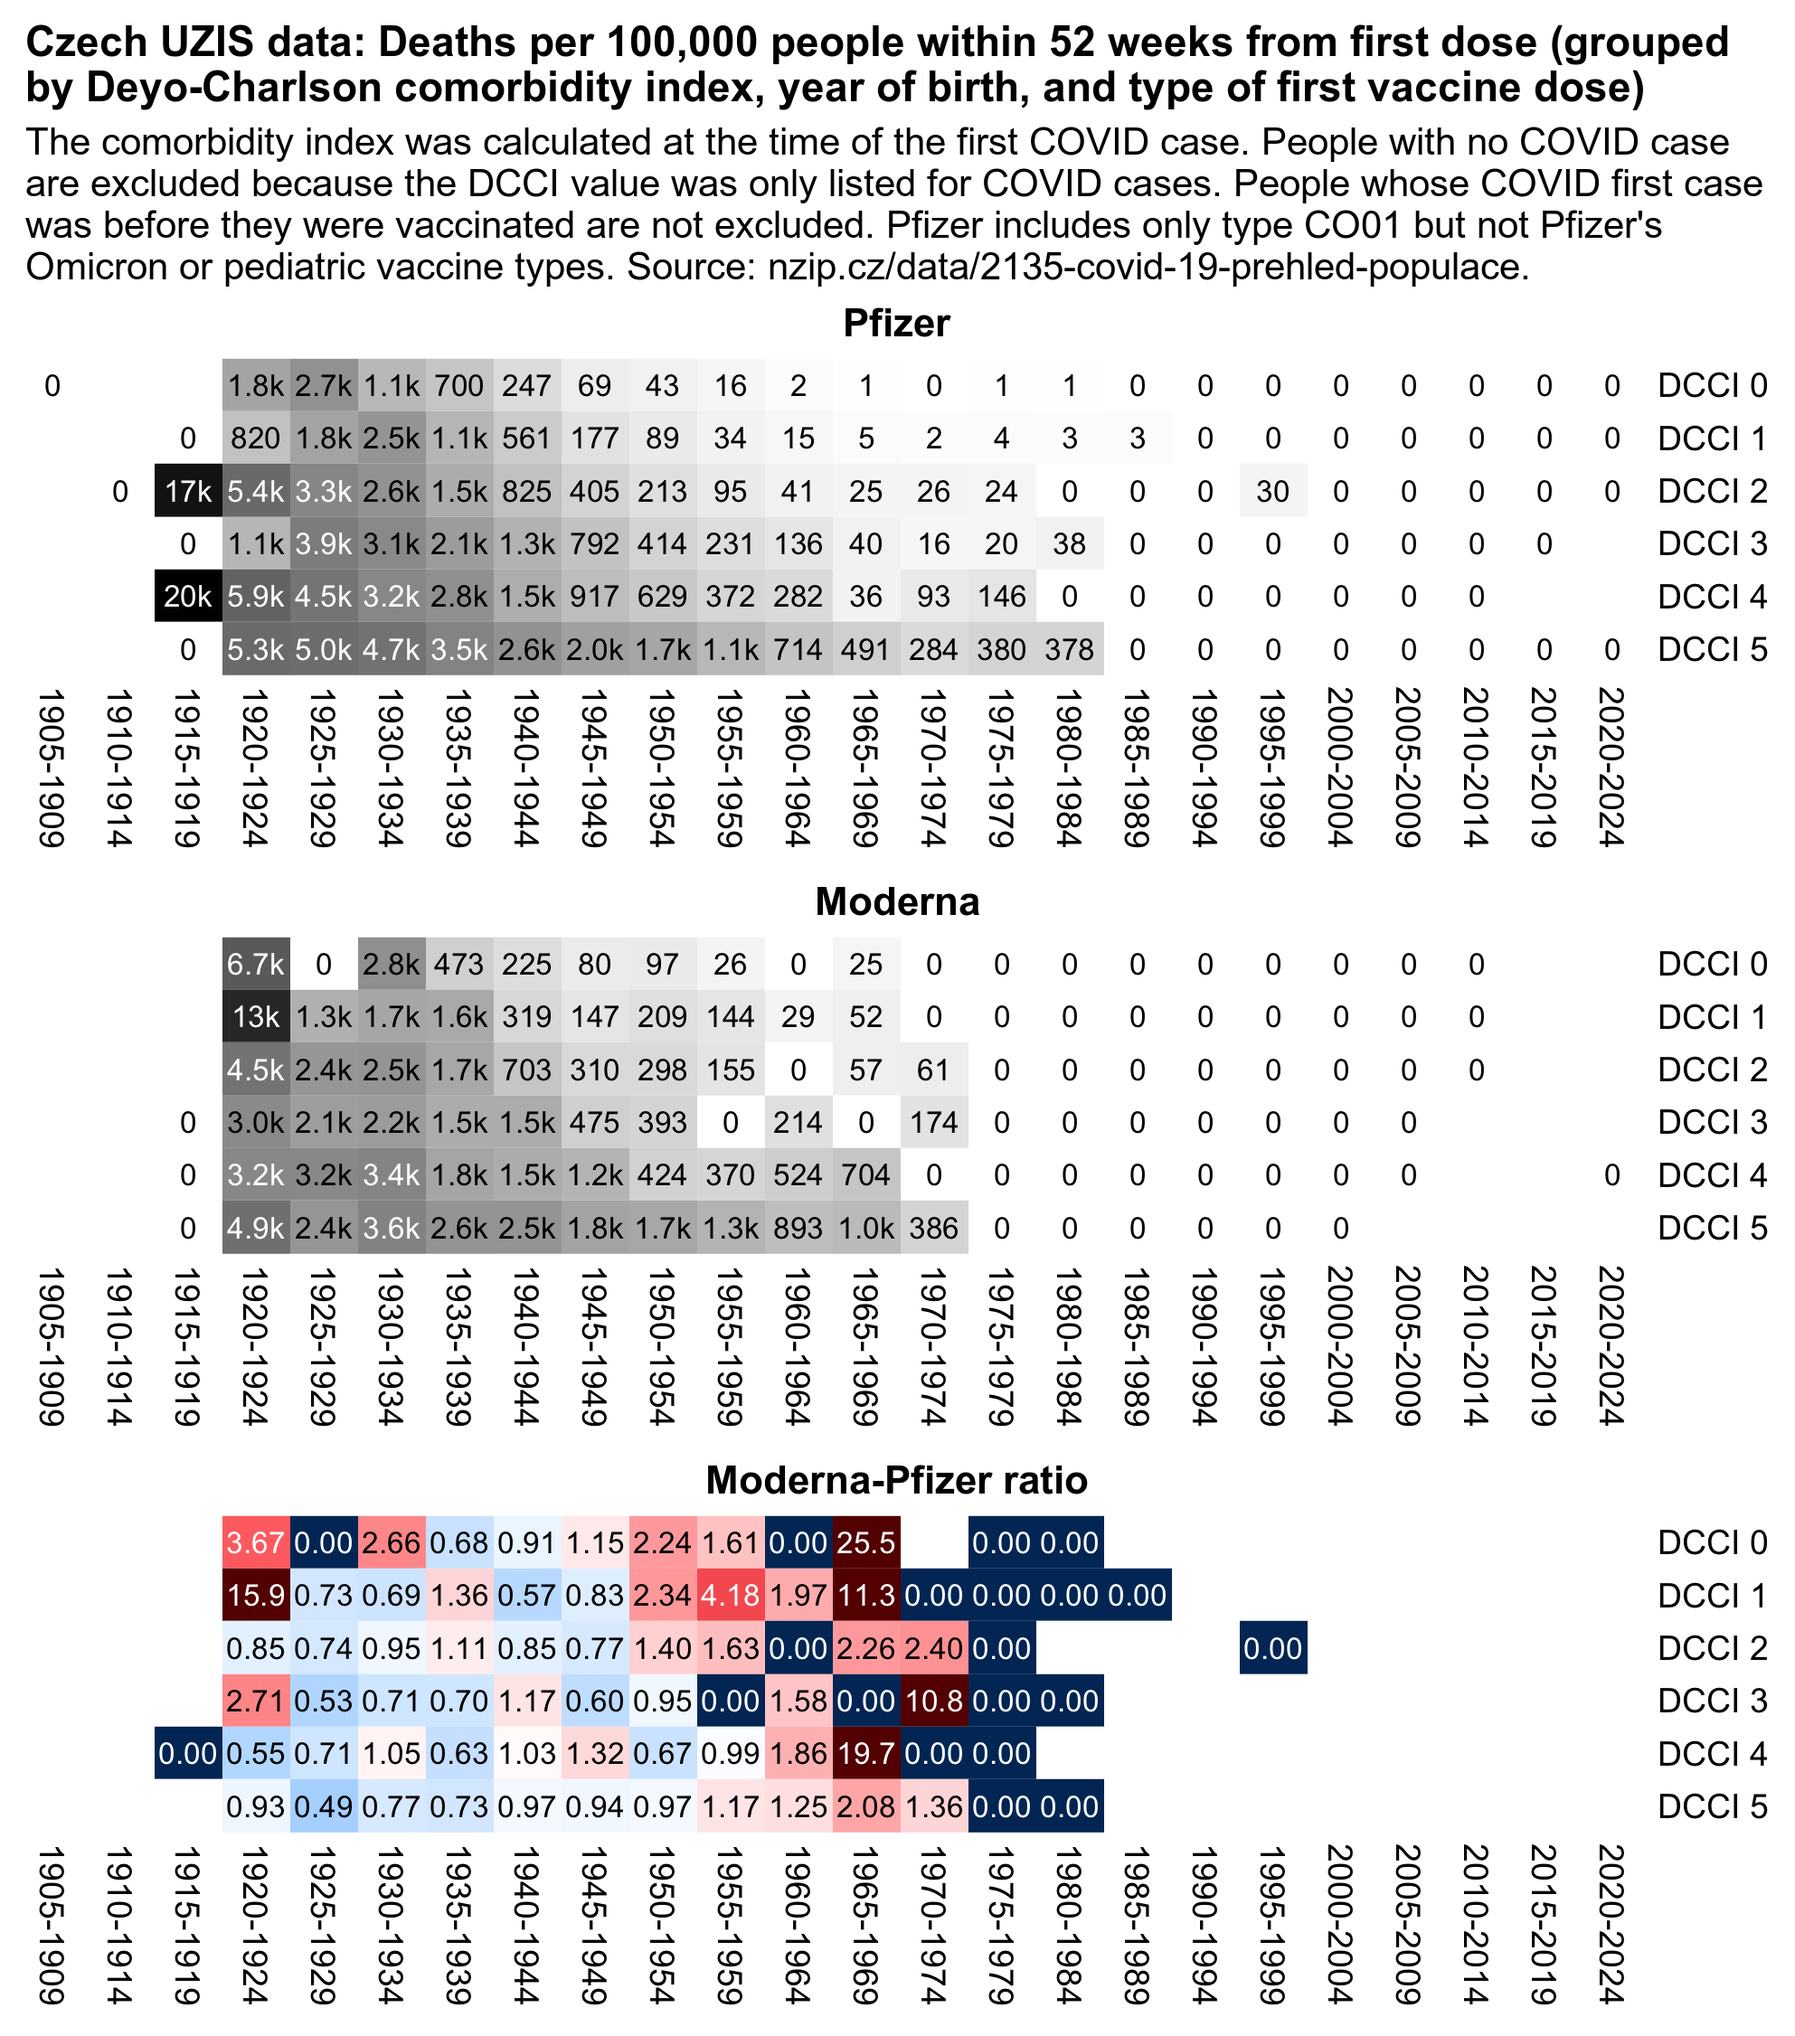
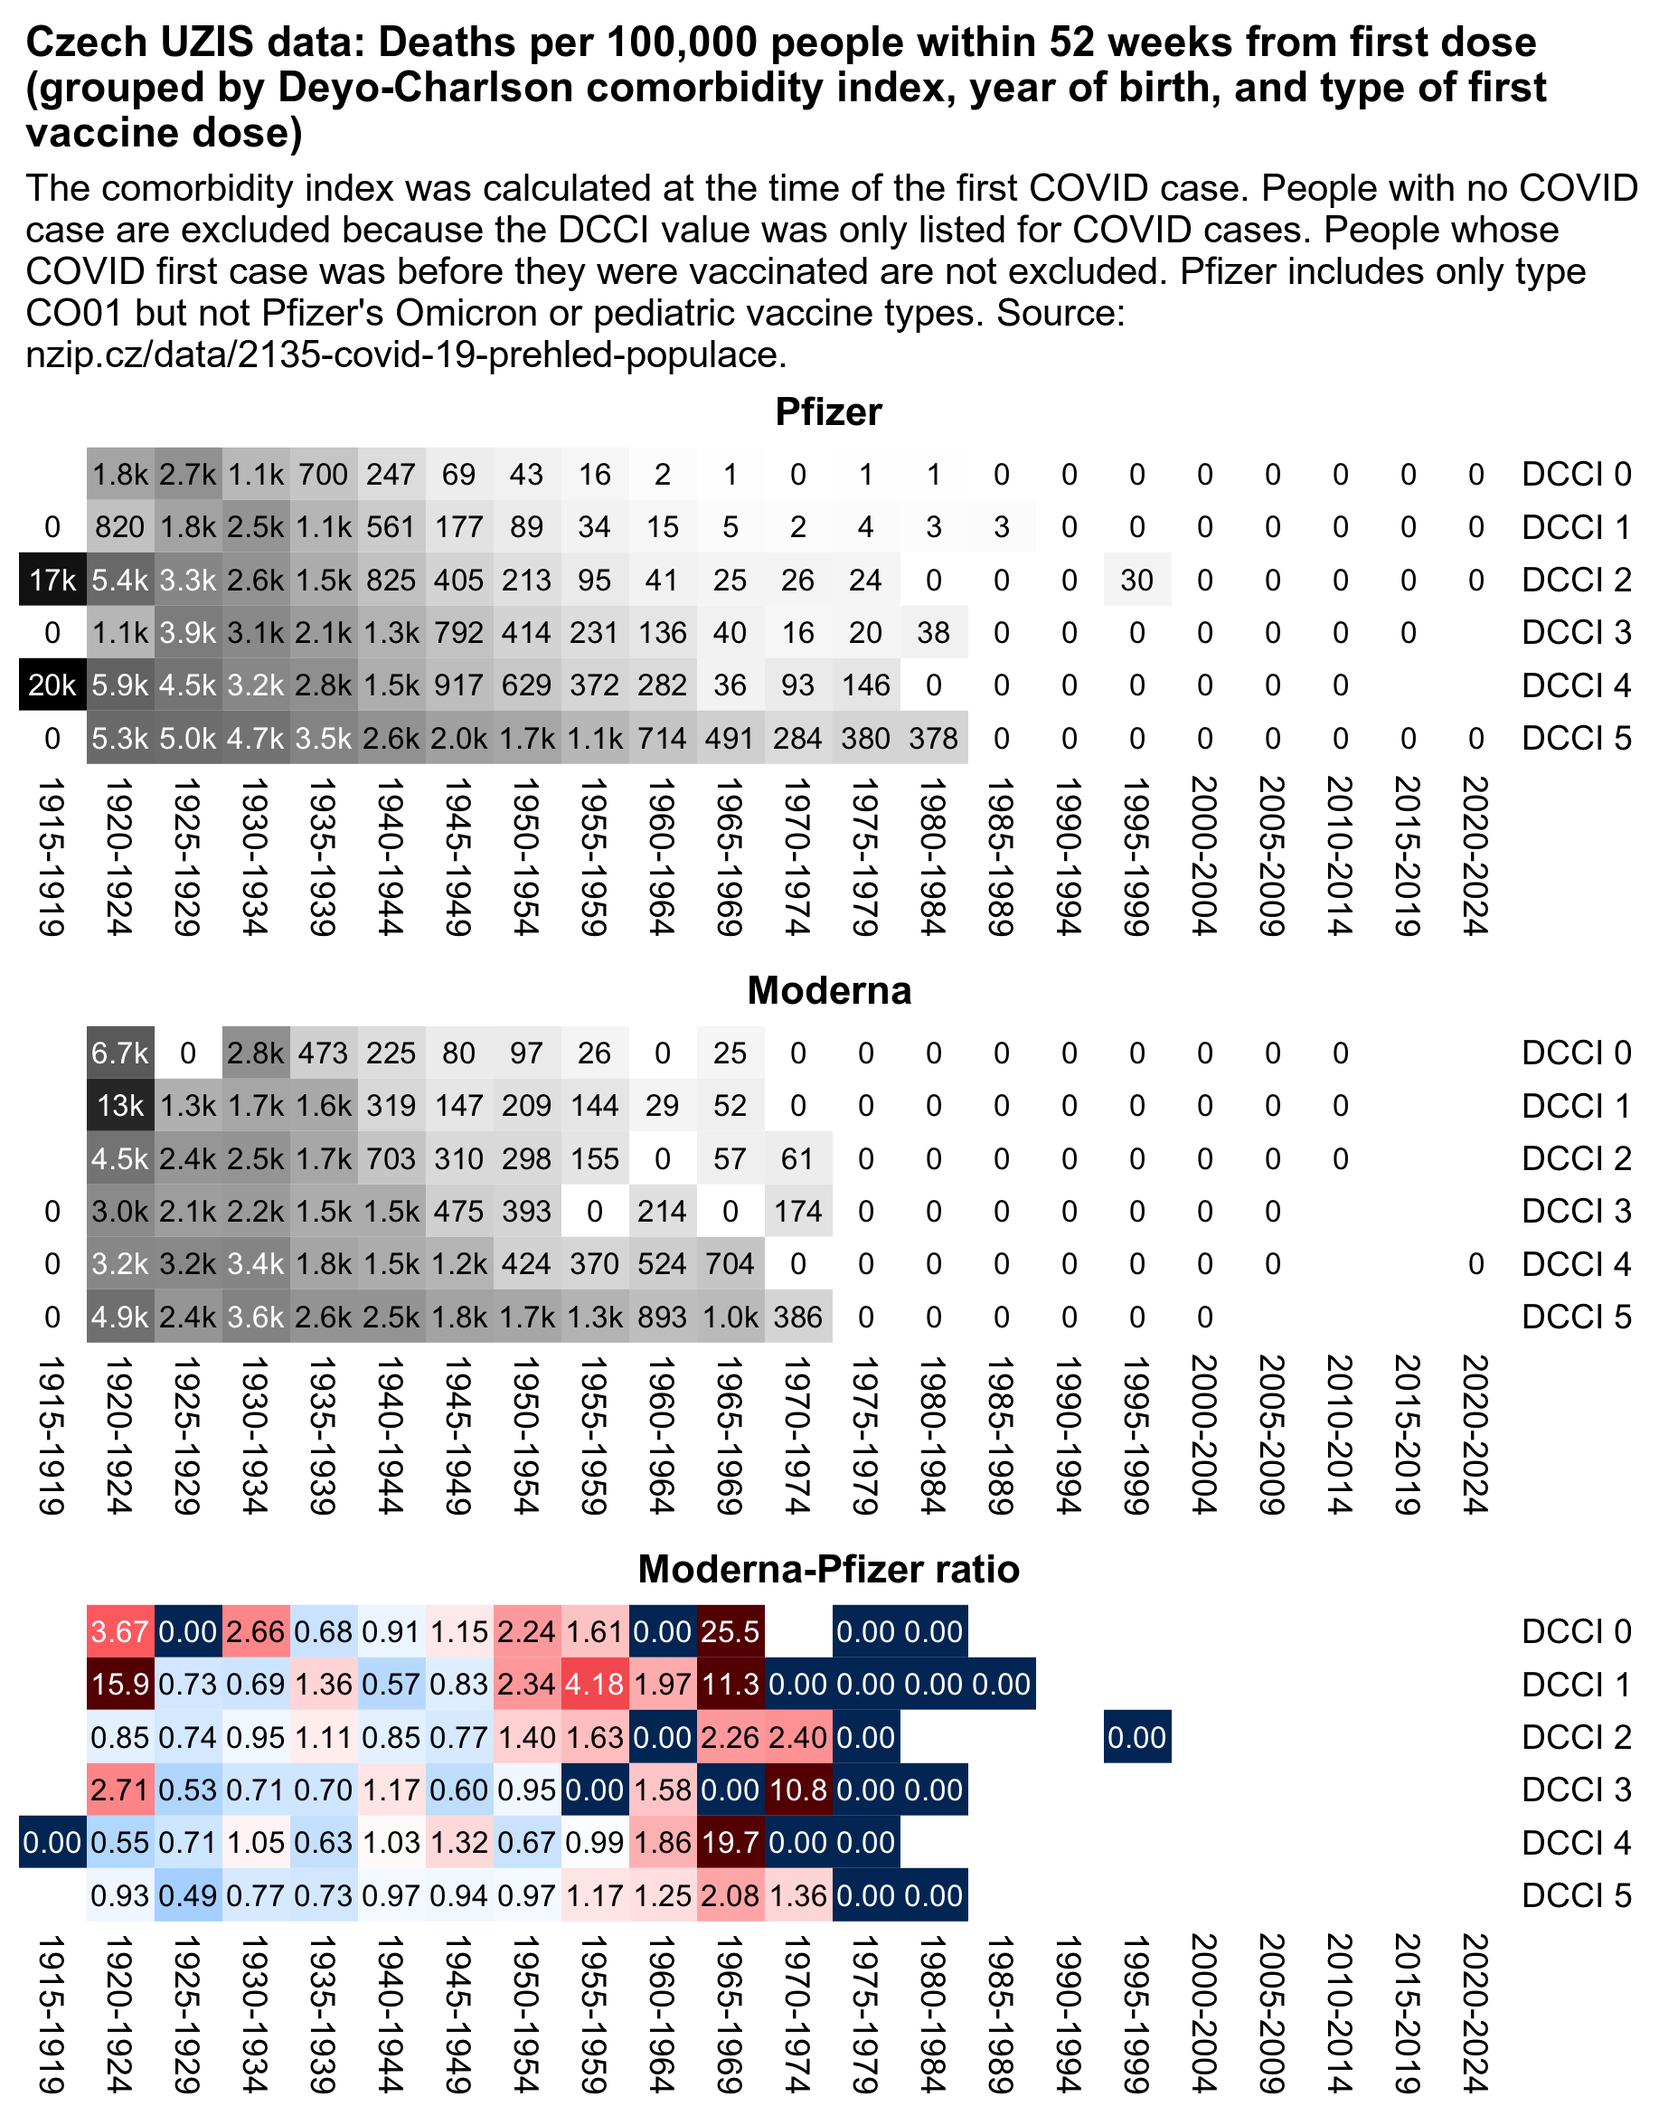
a

diff --git a/czech4.html b/czech4.html
@@ -82,7 +82,7 @@ blockquote blockquote blockquote,blockquote blockquote .quote,blockquote .quote 
 <li><a href=#Comorbidity_index_by_age_group_and_vaccine_type_in_new_UZIS_data>Comorbidity index by age group and vaccine type in new UZIS data</a></li>
 <li><a href=#Age_standardized_hospitalization_rate_by_vaccine_type_in_new_UZIS_data>Age-standardized hospitalization rate by vaccine type in new UZIS data</a></li>
 <li><a href=#Age_standardized_hospitalization_rate_by_age_group_in_new_UZIS_data>Age-standardized hospitalization rate by age group in new UZIS data</a></li>
-<li><a href=#Moderna_Pfizer_mortality_ratio_by_year_of_birth_and_comorbidity_index>Moderna-Pfizer mortality ratio by year of birth and comorbidity index</a></li>
+<li><a href=#Moderna_Pfizer_mortality_ratio_by_year_of_birth_and_comorbidity_index_in_new_UZIS_data>Moderna-Pfizer mortality ratio by year of birth and comorbidity index in new UZIS data</a></li>
 </ul>
 
 <h2>
@@ -1906,9 +1906,10 @@ sub=&quot;The 2021 census population by 5-year age groups was used as the standa
 system(paste0(&quot;mar=$[24*4];w=`identify -format %w 1.png`;magick \\( 1.png -gravity southwest -chop 0x70 \\) \\( -size $[w-mar*2]x -font Arial -interline-spacing -3 -pointsize $[44*4] caption:&#39;&quot;,gsub(&quot;&#39;&quot;,&quot;&#39;\\\\&#39;&quot;,sub),&quot;&#39; -gravity southwest -splice $[mar]x$[20*4] \\) -append -resize 25% -colors 256 1.png&quot;))</pre>
 </div>
 <h2>
-<a href=#Moderna_Pfizer_mortality_ratio_by_year_of_birth_and_comorbidity_index id=Moderna_Pfizer_mortality_ratio_by_year_of_birth_and_comorbidity_index>Moderna-Pfizer mortality ratio by year of birth and comorbidity index</a>
+<a href=#Moderna_Pfizer_mortality_ratio_by_year_of_birth_and_comorbidity_index_in_new_UZIS_data id=Moderna_Pfizer_mortality_ratio_by_year_of_birth_and_comorbidity_index_in_new_UZIS_data>Moderna-Pfizer mortality ratio by year of birth and comorbidity index in new UZIS data</a>
 </h2>
-<p>In the next plot I calculated the number of deaths within the first 52 weeks of the first vaccine dose grouped by the vaccine type, DCCI, and year of birth. For people who were born in the 1950s or earlier, the Moderna-Pfizer ratio was below 1 for most combinations of age group and DCCI, but in people who were born in the 1960s it was the other way around (even though the sample sizes are so small that it might have been due to chance):</p>
+<p>In the next plot I calculated the number of deaths within the first 52 weeks of the first vaccine dose grouped by the vaccine type, DCCI, and year of birth. For people who were born in the 1950s or earlier, the Moderna-Pfizer ratio was below 1 for most combinations of age group and DCCI, but in people who were born in the 1960s it was the other way around (even though the sample sizes are so small that it might have been due to chance).</p>
+<p>But anyway, for the combinations of age group and DCCI which have the highest sample size of deaths, Pfizer generally gets a higher mortality ratio than Moderna, which seems to conflict with Kirsch's hypothesis that Moderna had higher mortality rate during the first year from vaccination because Moderna vaccines were killing more people:</p>
 <div class="width7">
 <img src="i/czech-dcci-modpfi-2.png">
 </div>
@@ -1919,7 +1920,9 @@ Show code
 
 weeks=u(format(seq(as.Date(&quot;2020-1-1&quot;),as.Date(&quot;2024-12-31&quot;),1),&quot;%Y-%V&quot;))
 
-a=t[Infekce==1&amp;RokNarozeni!=&quot;-&quot;,.(first=match(Datum_Prvni_davka,weeks),dead=match(Umrti,weeks),dcci=DCCI,code=OckovaciLatkaKod_Prvni_davka,born=RokNarozeni)]
+a=t[Infekce==1&amp;RokNarozeni!=&quot;-&quot;,.(case=match(DatumPozitivity,weeks),first=match(Datum_Prvni_davka,weeks),dead=match(Umrti,weeks),dcci=DCCI,code=OckovaciLatkaKod_Prvni_davka,born=RokNarozeni)]
+a=a[!born%like%&quot;19(05|10)&quot;]
+# a=a[case&gt;=first]
 a=a[code%in%paste0(&quot;CO0&quot;,1:2),.(cmr=mean((dead-first)%in%0:51,na.rm=T)*1e5),.(code,born,dcci)]
 
 a[,name:=factor(code,,c(&quot;Pfizer&quot;,&quot;Moderna&quot;))]
@@ -1940,7 +1943,7 @@ for(i in 1:dim(m0)[1]){
 
 ar=a[,tapply(cmr,.(code,paste(&quot;DCCI&quot;,dcci),born),c)]
 m1=ar[1,,];m2=ar[2,,];m=(m2-m1)/ifelse(m2&gt;m1,m1,m2)
-disp=m2/m1;disp[]=sprintf(&quot;%.2f&quot;,disp)
+disp=m2/m1;disp[]=ifelse(disp&gt;=10,sprintf(&quot;%.1f&quot;,disp),sprintf(&quot;%.2f&quot;,disp))
 pal=hsv(rep(c(21,0)/36,5:4),c(1,.8,.6,.3,0,.3,.6,.8,1),c(.4,.65,1,1,1,1,1,.65,.4))
 maxcolor=8;exp=.7
 
@@ -1951,7 +1954,11 @@ pheatmap::pheatmap(sign(m)*abs(m)^exp,filename=paste0(&quot;i3.png&quot;),displa
   breaks=seq(-maxcolor^exp,maxcolor^exp,,256),colorRampPalette(pal)(256))
 
 sub=&quot;The comorbidity index was calculated at the time of the first COVID case. People with no COVID case are excluded because the DCCI value was only listed for COVID cases. People whose COVID first case was before they were vaccinated are not excluded. Pfizer includes only type CO01 but not Pfizer&#39;s Omicron or pediatric vaccine types. Source: nzip.cz/data/2135-covid-19-prehled-populace.&quot;
-system(paste0(&quot;w=`identify -format %w i1.png`;pad=14;convert -gravity northwest -pointsize 46 -interline-spacing -2 -font Arial-Bold -size $[w-pad*3]x \\( caption:&#39;Czech UZIS data: Deaths per 100,000 people within 52 weeks from first dose (grouped by Deyo-Charlson comorbidity index, year of birth, and type of first vaccine dose)&#39; -splice $[pad]x20 \\) \\( -size $[w-pad*3]x -font Arial -pointsize 42 caption:&#39;&quot;,gsub(&quot;&#39;&quot;,&quot;&#39;\\\\&#39;&#39;&quot;,sub),&quot;&#39; -splice $[pad]x10 \\) -pointsize 44 -font Arial-Bold -gravity north \\( caption:Pfizer -splice x12 \\( i1.png -chop x10 \\) caption:Moderna \\( i2.png -chop x10 \\) caption:&#39;Moderna-Pfizer ratio&#39; \\( i3.png -chop x10 \\) \\) -append 1.png&quot;));qp()</pre>
+system(paste0(&quot;w=`identify -format %w i1.png`;pad=14;convert -gravity northwest -pointsize 46 -interline-spacing -2 -font Arial-Bold -size $[w-pad*3]x \\( caption:&#39;Czech UZIS data: Deaths per 100,000 people within 52 weeks from first dose (grouped by Deyo-Charlson comorbidity index, year of birth, and type of first vaccine dose)&#39; -splice $[pad]x20 \\) \\( -size $[w-pad*3]x -font Arial -pointsize 42 caption:&#39;&quot;,gsub(&quot;&#39;&quot;,&quot;&#39;\\\\&#39;&#39;&quot;,sub),&quot;&#39; -splice $[pad]x10 \\) -pointsize 44 -font Arial-Bold -gravity north \\( caption:Pfizer -splice x12 \\( i1.png -chop x10 \\) caption:Moderna \\( i2.png -chop x10 \\) caption:&#39;Moderna-Pfizer ratio&#39; \\( i3.png -chop x10 \\) \\) -append 1.png&quot;))</pre>
+</div>
+<p>When I excluded people whose first COVID case was before vaccination, the Moderna-Pfizer ratios got a lot higher for most combinations of DCCI and age group with largest sample size of deaths:</p>
+<div class="width7">
+<img src="i/czech-dcci-modpfi-3.png">
 </div>
 <script>
 let q=document.querySelectorAll('a,code,pre')
